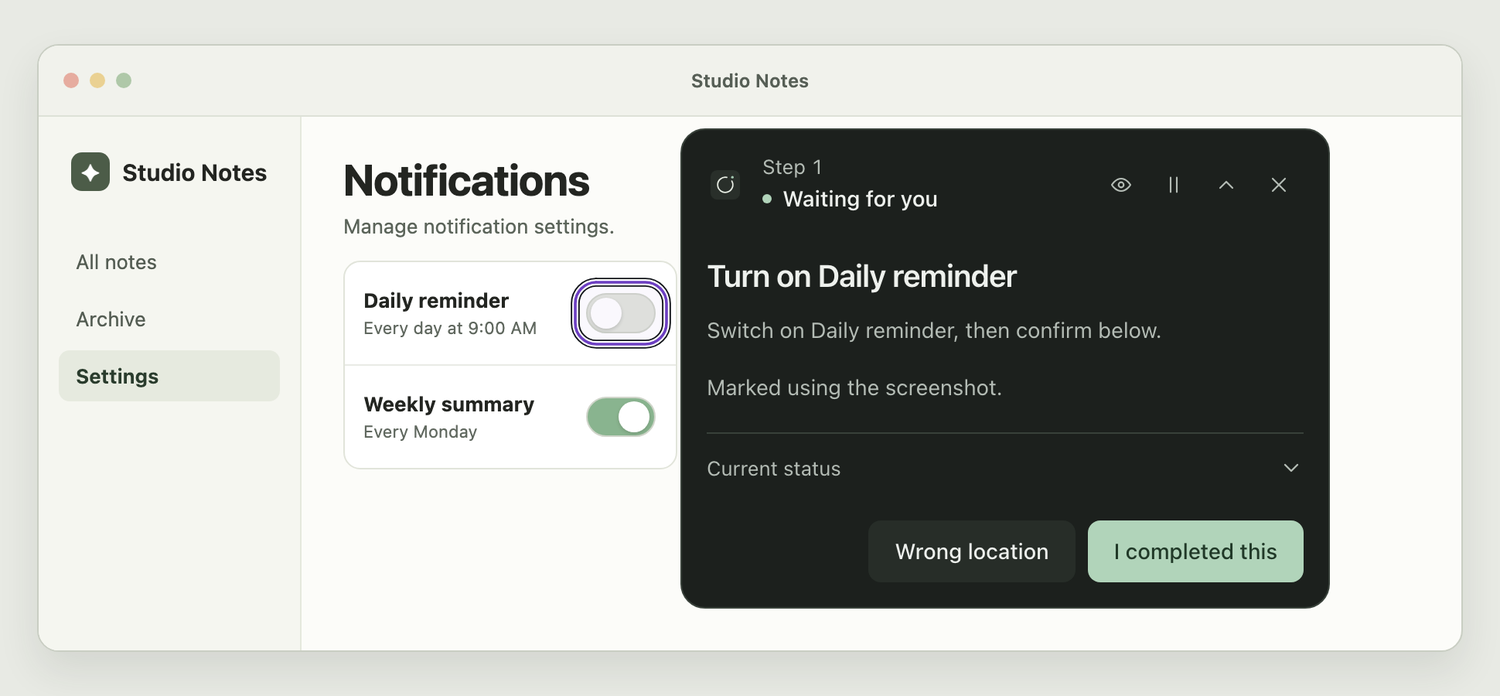
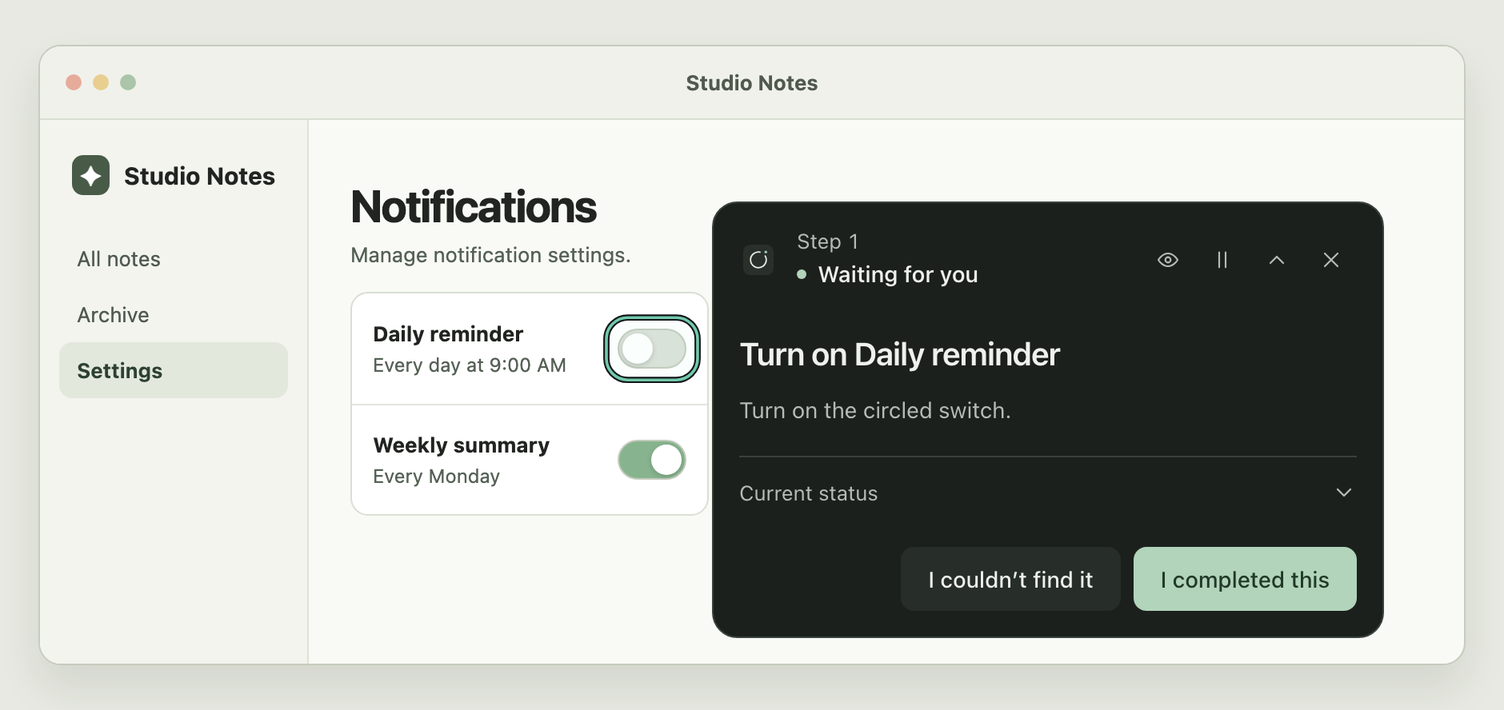
Refine direct desktop guidance and examples

diff --git a/src/desktop/panel.js b/src/desktop/panel.js
@@ -13,13 +13,12 @@ Object.assign(UI['zh-CN'],{
  attachedReceipt:'操作已记录。Agent 将检查原应用的结果。',
  observed:'检测到目标变化',observedNote:'需要检查原应用，确认界面变化是否符合预期。',
  locationRequested:'已请求重新定位',textRequested:'已请求文字引导',fallback:'文字引导',
- correctionRequested:'已报告位置错误',correctTarget:'指错位置了',peek:'按住查看原界面',
+ correctTarget:'我没有找到',peek:'按住查看原界面',
  verifiedReceipt:'已核实',verifiedPrevious:detail=>`上一步已核实 · ${detail}`,scrollToTarget:'先滚动到目标',
  recoverHere:'正在等待原会话提供更新后的步骤。',
  recoverInChat:'回到原会话说“继续”，获取更新后的步骤。',
  expiredTarget:'标记已过期。可重新定位，或改用文字提示。',
- screenshot:'已根据截图标出位置。',
- screenshotFallback:'当前界面无法直接读取，已根据截图标出位置。',
+ screenshotFallback:'当前界面无法直接读取。本步骤使用截图定位。',
  displayChanged:'显示布局已变化，可用新的位置重新标记。',
  permissionNote:'查看当前应用的定位权限，或改用文字提示。'
 });
@@ -28,13 +27,12 @@ Object.assign(UI['en-US'],{
  attachedReceipt:'Action recorded. The agent will check the result in the original app.',
  observed:'Target change detected',observedNote:'Check the original app to confirm what changed.',
  locationRequested:'New location requested',textRequested:'Text guidance requested',fallback:'Text guidance',
- correctionRequested:'Wrong location reported',correctTarget:'Wrong location',peek:'Hold to see the original screen',
+ correctTarget:'I couldn’t find it',peek:'Hold to see the original screen',
  verifiedReceipt:'Verified',verifiedPrevious:detail=>`Previous step verified · ${detail}`,scrollToTarget:'Scroll to the target',
  recoverHere:'Waiting for an updated step from your chat.',
  recoverInChat:'Say “continue” in your original chat for the updated step.',
  expiredTarget:'The mark expired. Locate it again or use text guidance.',
- screenshot:'Marked using the screenshot.',
- screenshotFallback:'Direct access to this interface is unavailable. The mark is based on the screenshot.',
+ screenshotFallback:'Direct observation is unavailable. This step uses a screenshot.',
  displayChanged:'The display layout changed. Locate the target again to update its mark.',
  permissionNote:'Check control lookup access or use text guidance.'
 });
@@ -125,7 +123,7 @@ function render(session){
    (returnToChat?c.returnToChat:c.observedNote):(returnToChat?c.returnToChat:c.attachedReceipt);
  else if(review)note=c.reviewNote;
  else if(hasMarks){
-   const screenshotNote=session.observationMethod==='screenshot_fallback'?c.screenshotFallback:session.observationMethod==='screenshot'?c.screenshot:'';
+   const screenshotNote=session.observationMethod==='screenshot_fallback'?c.screenshotFallback:'';
    note=[screenshotNote,scrollMark?.label].filter(Boolean).join(' ');
  }
  $('note').hidden=!note;$('note').dataset.tone=(blocked&&!recovering)||offline||inconclusive||mismatch?'warning':'info';

diff --git a/src/desktop/panel.html b/src/desktop/panel.html
@@ -7,6 +7,6 @@
 <div id="stepBody" class="step-body"><section class="panel-content"><h1 id="title">需要你操作</h1><p id="message"></p><p id="protectedNote" class="panel-caption" hidden></p><p class="panel-caption" id="note" role="status" hidden></p></section>
 <details id="stepDetails" class="step-details"><summary id="detailsLabel">当前状态</summary><p id="detailText"></p><button class="ui-button" type="button" id="execution">挂起会话</button></details>
 </div>
-<footer class="panel-footer"><span id="timer" hidden></span><div id="decisionActions" class="panel-actions"><button class="ui-button quiet-button" type="button" id="correctTarget" hidden>指错位置了</button><button class="ui-button secondary" type="button" id="decline">拒绝</button><button class="ui-button action-primary" type="button" id="done"><span id="doneLabel">我已完成</span></button></div><div id="recoveryActions" class="panel-actions" hidden><button class="ui-button secondary" type="button" id="fallback">文字引导</button><button class="ui-button action-primary" type="button" id="retry">重新定位</button></div></footer>
+<footer class="panel-footer"><span id="timer" hidden></span><div id="decisionActions" class="panel-actions"><button class="ui-button quiet-button" type="button" id="correctTarget" hidden>我没有找到</button><button class="ui-button secondary" type="button" id="decline">拒绝</button><button class="ui-button action-primary" type="button" id="done"><span id="doneLabel">我已完成</span></button></div><div id="recoveryActions" class="panel-actions" hidden><button class="ui-button secondary" type="button" id="fallback">文字引导</button><button class="ui-button action-primary" type="button" id="retry">重新定位</button></div></footer>
 </div>
 </main><script type="module" src="panel.js"></script><script type="module" src="../../assets/ui/focus-policy.mjs"></script></body></html>

diff --git a/README.md b/README.md
@@ -4,17 +4,17 @@
 
 # HandoffGlass
 
-**Desktop annotations and step-by-step guidance for agents**
+**On-screen annotations and guidance for agents**
 
 [**English**](README.md) · [简体中文](README.zh-CN.md)
 
 </div>
 
-HandoffGlass marks controls directly on the desktop and presents steps that require user input. Once the user completes a step, the agent can verify the result and continue the task.
+Once your agent finds a control with Computer Use, it can call HandoffGlass to circle a button, point to a menu, or highlight a field in the app you’re using. When it needs you to take an action, a card beside the mark shows the next step.
 
 ![HandoffGlass outlines the Daily reminder switch and shows the confirmation card](assets/desktop-guidance-en.png)
 
-*Desktop demo in a sample app.*
+*In a sample app, the agent circles the Daily reminder switch and asks you to turn it on.*
 
 ## Install in Codex · 一句话安装
 
@@ -34,14 +34,13 @@ The plugin runs on your desktop. You can open a new chat after installation to l
 
 ## Features
 
-- **On-screen annotations** Place circles, arrows, or highlights over buttons, menus, and fields.
-- **Adaptive colors** Use available background colors to select a contrasting mark. Light and dark outlines improve visibility.
-- **Step-by-step guidance** Pause a guided task and resume it in the original chat.
-- **Screenshot positioning** On macOS 14 or later, the user can confirm sharing the capturable windows of a selected app on one display. The agent can mark the corresponding location on the desktop. Screen recording permission is required.
+- **Quick annotations** When a mark is enough, the agent can draw it while you keep using the app.
+- **Follow-through** Select “I completed this” so the agent can check the result in the app and continue. Select “I couldn’t find it” so it can look again and update the mark.
+- **Adaptive colors** HandoffGlass uses available background colors to choose a contrasting mark. Light and dark outlines keep its edges clear.
 
 **Example prompt**
 
-> Use HandoffGlass to show me how to turn on Daily reminder. Check the setting after I confirm.
+> Find Daily reminder in the current app and use HandoffGlass to circle the switch. After I turn it on, check that it’s enabled.
 
 ## Development and feedback
 

diff --git a/docs/HOST_OBSERVATION.md b/docs/HOST_OBSERVATION.md
@@ -64,7 +64,7 @@ npm run plugin:codex:install -- --lifecycle=enhanced
 
 一张已获授权的截图可以覆盖整块显示器。宿主提供截图和显示器映射，或用户在会话中主动分享截图。Agent 在图中找到图标或按钮，将区域和映射交给 HandoffGlass，由桌面在原位置画圈或指向目标。用户分享的图片缺少可靠映射时，可以在图里指出位置，或给出文字引导。
 
-直接读取不可用且已有可用截图时，在步骤的 `frame` 中设置 `directReadUnavailable: true`。桌面卡片显示“当前界面无法直接读取，已根据截图标出位置。”普通截图定位显示“已根据截图标出位置。”窗口或显示布局变化后，使用新的画面重新定位。操作结果需要另行核验。
+直接读取不可用且已有可用截图时，在步骤的 `frame` 中设置 `directReadUnavailable: true`。桌面卡片显示“当前界面无法直接读取。本步骤使用截图定位。”窗口或显示布局变化后，使用新的画面重新定位。操作结果需要另行核验。
 
 Codex 官方说明：[Computer Use](https://learn.chatgpt.com/docs/computer-use)、[插件构成](https://developers.openai.com/plugins/build/plugins)、[Hooks](https://learn.chatgpt.com/docs/hooks)。宿主的观察权限与本插件原生定位权限分别管理；后台 Hook 无法唤醒空闲模型回合。
 

diff --git a/docs/PRODUCT_INTERACTIONS.md b/docs/PRODUCT_INTERACTIONS.md
@@ -12,7 +12,7 @@ This is an implementation contract for an Agent-friendly overlay, not a roadmap 
 
 - The current target keeps its full cue until the pointer rests inside its bounds. The scrim then clears and thin corners remain for that step. A new step or a substantially relocated target brings back the full cue.
 - Hold the eye button to reveal the original app. Space or Enter works when the button has focus. Release the hold or move focus away to restore the active mark.
-- 「指错位置了」 clears the marks and requests another observation for the same step. The owner receives a `recovery_requested` event with reason `target_incorrect`.
+- “I couldn’t find it” (「我没有找到」) clears the marks and asks the Agent to locate the target again for the same step. The owner receives a `recovery_requested` event with reason `target_incorrect`.
 - A verified `session_verify` result can include a short observed `summary`. The card carries that line into the next step briefly or shows it in a temporary receipt when the task ends.
 
 ## Agent decision table
